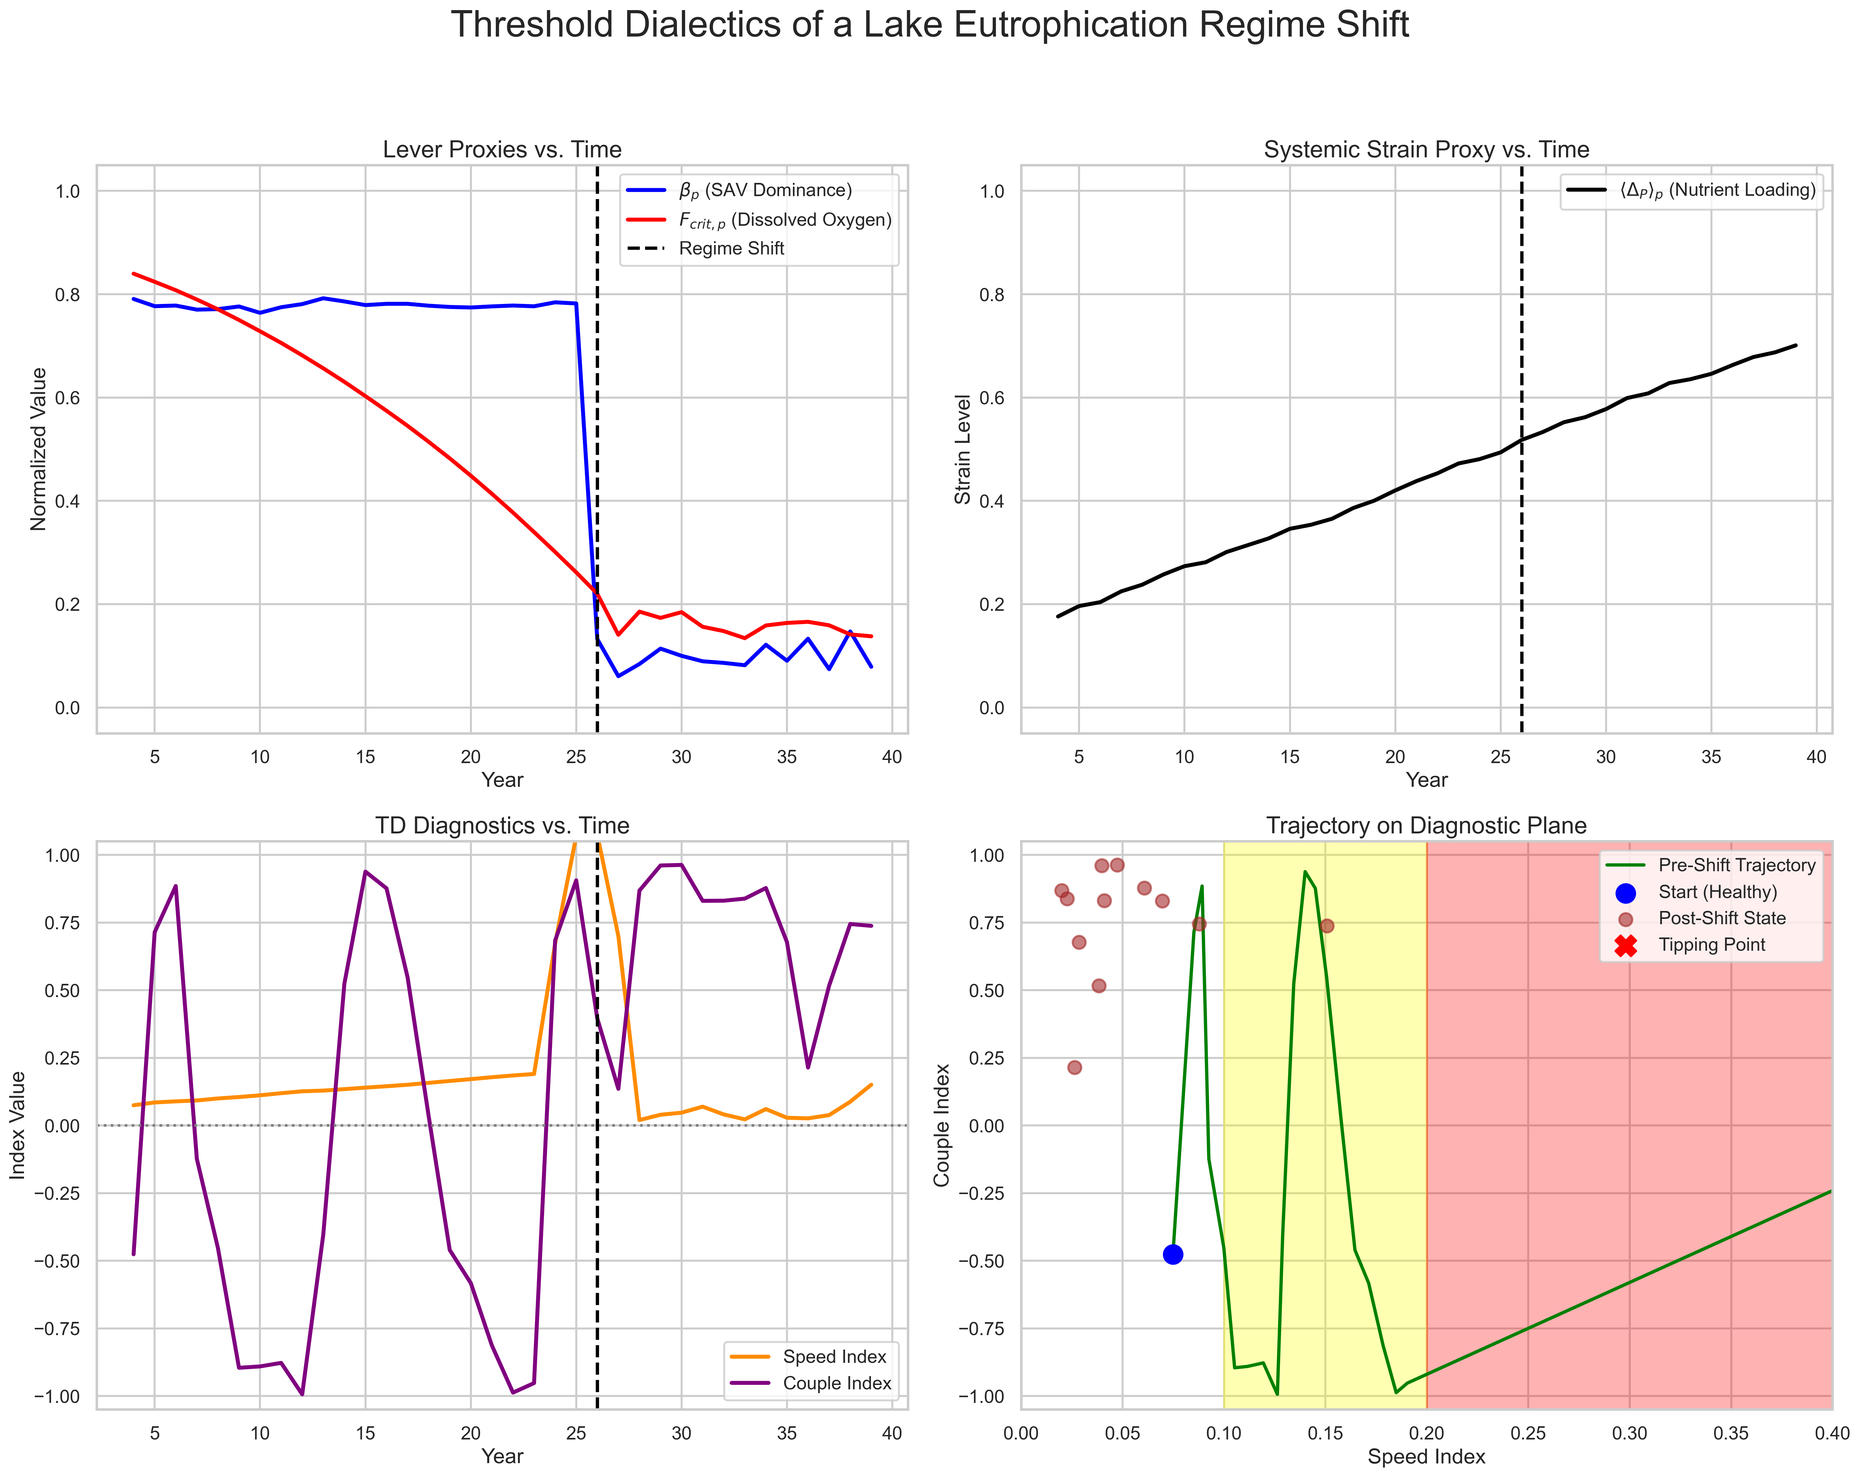
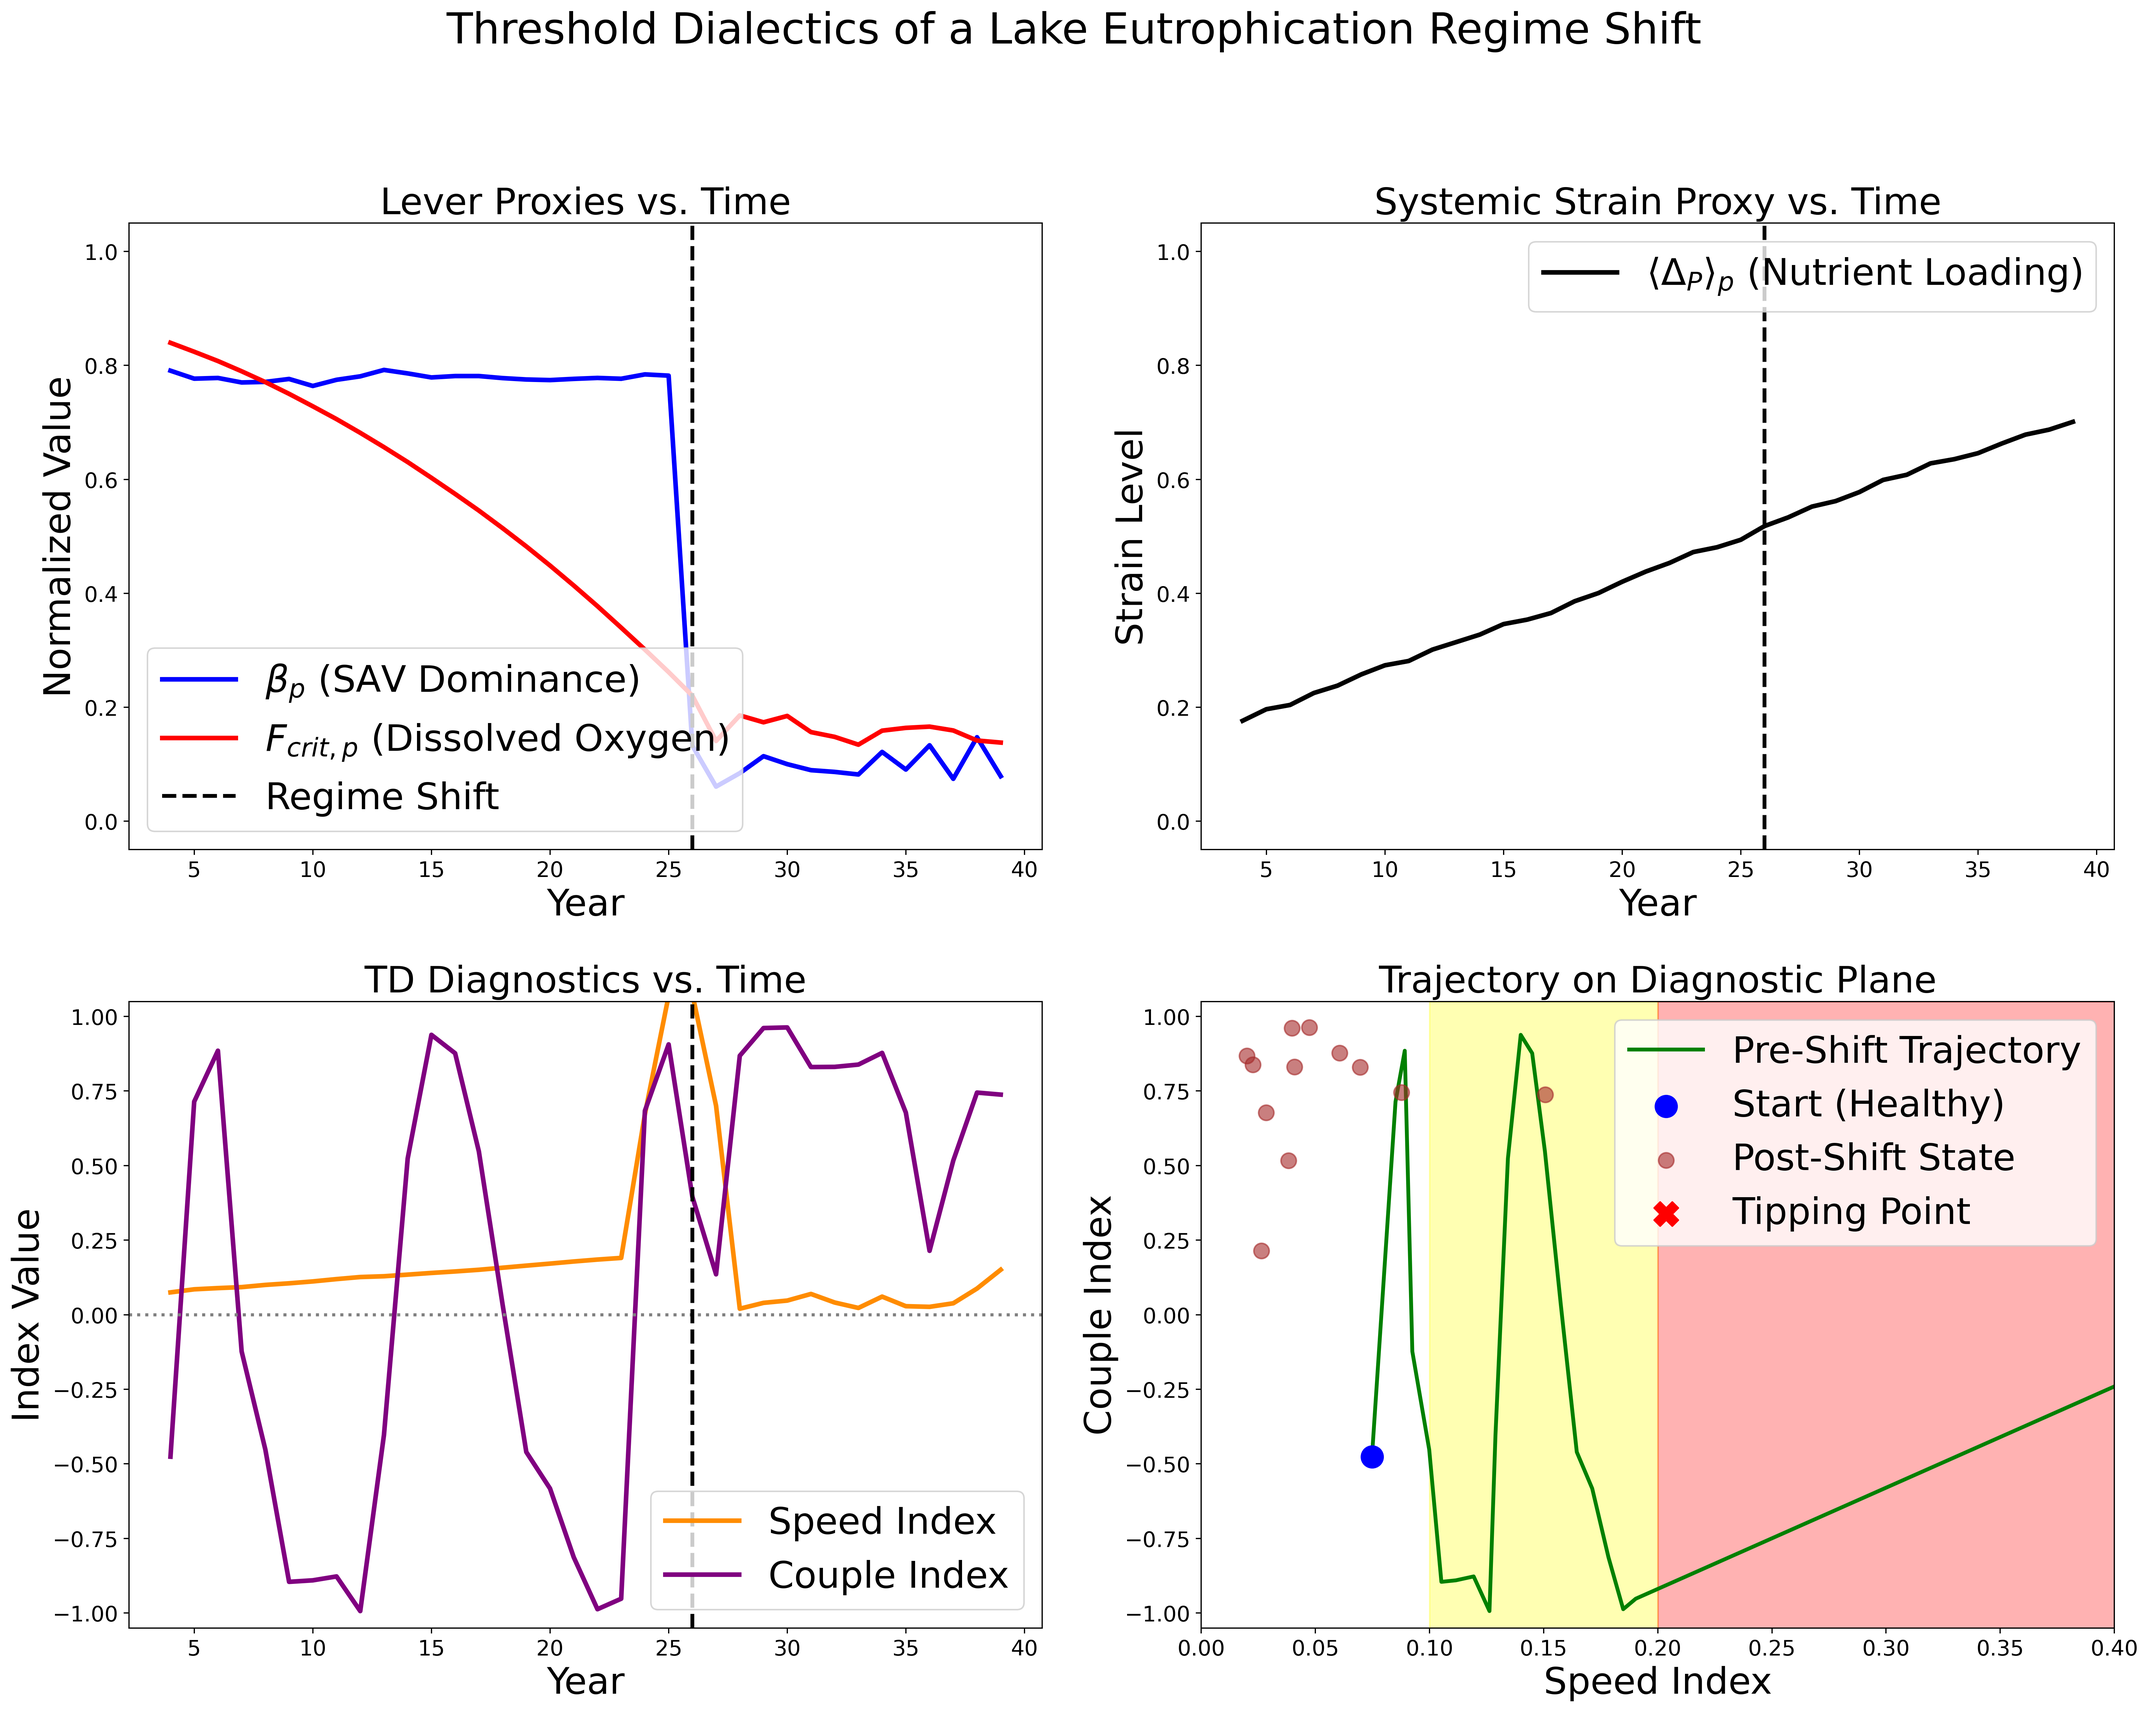
Finished

diff --git a/echo_bubble_19A.py b/echo_bubble_19A.py
@@ -5,8 +5,15 @@ import matplotlib.pyplot as plt
 from scipy.signal import savgol_filter
 import seaborn as sns
 import scipy.stats as stats
-# Set a professional plotting theme
-sns.set_theme(style="whitegrid", context="talk")
+# Set a professional plotting theme with larger text
+plt.rcParams.update({
+    "font.size": 24,
+    "axes.titlesize": 24,
+    "axes.labelsize": 24,
+    "legend.fontsize": 24,
+    "xtick.labelsize": 14,
+    "ytick.labelsize": 14
+})
 
 class FinancialMarketSystem:
     """
@@ -146,7 +153,6 @@ def plot_financial_cascade(df):
     using a unified color scheme and a high-contrast "cased line" for clarity.
     """
     # Use the seaborn 'whitegrid' style for consistency with the lake figure
-    sns.set_theme(style="whitegrid", context="talk")
     
     fig, axes = plt.subplots(2, 2, figsize=(20, 16))
     fig.suptitle('Threshold Dialectics of a Financial "Echo Bubble"', fontsize=28, y=0.98)
@@ -179,16 +185,16 @@ def plot_financial_cascade(df):
     ax.plot(df.index, df['beta_p'], color=LINE_COLORS['beta_p'], lw=3, label=r'$\beta_p$ (Valuation Consensus)')
     ax.plot(df.index, df['fcrit_p'], color=LINE_COLORS['fcrit_p'], lw=3, label=r'$F_{crit,p}$ (Margin Debt)')
     ax.axvline(correction_start_week, color='black', linestyle='--', lw=2.5, label='Correction Start')
-    ax.set_title('Lever Proxies vs. Time', fontsize=18)
-    ax.set_ylabel('Normalized Value', fontsize=16)
-    ax.legend(loc='upper left', fontsize=14)
+    ax.set_title('Lever Proxies vs. Time')
+    ax.set_ylabel('Normalized Value')
+    ax.legend(loc='upper left')
 
     # Panel 2: Systemic Strain
     ax = axes[0, 1]
     ax.plot(df.index, df['strain_p'], color=LINE_COLORS['strain_p'], lw=3, label=r'$\langle\Delta_P\rangle_p$ (Price Deviation)')
     ax.axvline(correction_start_week, color='black', linestyle='--', lw=2.5)
-    ax.set_title('Systemic Strain Proxy vs. Time', fontsize=18)
-    ax.legend(loc='upper left', fontsize=14)
+    ax.set_title('Systemic Strain Proxy vs. Time')
+    ax.legend(loc='upper left')
 
     # Panel 3: TD Diagnostics
     ax = axes[1, 0]
@@ -196,9 +202,9 @@ def plot_financial_cascade(df):
     ax.plot(df.index, df['CoupleIndex'], color=LINE_COLORS['CoupleIndex'], lw=3, label='Couple Index')
     ax.axhline(0, color='gray', linestyle=':', lw=2)
     ax.axvline(correction_start_week, color='black', linestyle='--', lw=2.5)
-    ax.set_title('TD Diagnostics vs. Time', fontsize=18)
-    ax.set_ylabel('Index Value', fontsize=16)
-    ax.legend(loc='best', fontsize=14)
+    ax.set_title('TD Diagnostics vs. Time')
+    ax.set_ylabel('Index Value')
+    ax.legend(loc='best')
 
     # --- Panel 4: Trajectory on Diagnostic Plane (FINAL POLISHED VERSION) ---
     ax = axes[1, 1]
@@ -234,12 +240,12 @@ def plot_financial_cascade(df):
     ax.scatter(correction_point['SpeedIndex'], correction_point['CoupleIndex'],
                marker='X', s=300, color='white', ec='black', lw=1.5, zorder=5, label='Correction Start') # White 'X' for max contrast
 
-    ax.set_title('Trajectory on Diagnostic Plane', fontsize=18)
-    ax.set_xlabel('Speed Index', fontsize=16)
-    ax.set_ylabel('Couple Index', fontsize=16)
+    ax.set_title('Trajectory on Diagnostic Plane')
+    ax.set_xlabel('Speed Index')
+    ax.set_ylabel('Couple Index')
     ax.set_xlim(0, 0.15)
     ax.set_ylim(-1.05, 1.05)
-    ax.legend(title="Trajectory & Events", loc='lower right', fontsize=12, title_fontsize=13)
+    ax.legend(title="Trajectory & Events", loc='lower right')
 
     # Apply UNIFIED Narrative Phase Backgrounds to all Time-Series Plots
     for ax_ts in [axes[0, 0], axes[0, 1], axes[1, 0]]:
@@ -253,15 +259,15 @@ def plot_financial_cascade(df):
     for ax_row in axes:
         for ax_col in ax_row:
             if ax_col is not axes[1, 1]:
-                ax_col.set_xlabel('Week', fontsize=16)
+                ax_col.set_xlabel('Week')
                 # Remove y-axis labels for strain and index plots for cleaner look if desired
                 # (Optional, but can improve dashboard feel)
                 if ax_col in [axes[0, 1], axes[1, 0]]:
                     ax_col.set_ylabel('')
-            ax_col.tick_params(axis='both', which='major', labelsize=14)
+            ax_col.tick_params(axis='both', which='major', labelsize=12)
 
     plt.tight_layout(rect=[0, 0, 1, 0.95])
-    plt.savefig("financial_bubble_dashboard.png", dpi=300, bbox_inches='tight')
+    plt.savefig("financial_bubble_dashboard.png", dpi=350, bbox_inches='tight')
     plt.show()
 
 

diff --git a/lake_eutrophication_19B.py b/lake_eutrophication_19B.py
@@ -5,8 +5,15 @@ import matplotlib.pyplot as plt
 from scipy.signal import savgol_filter
 import seaborn as sns
 import scipy.stats as stats
-# Set a professional plotting theme
-sns.set_theme(style="whitegrid", context="talk")
+# Set a professional plotting theme with larger text
+plt.rcParams.update({
+    "font.size": 24,
+    "axes.titlesize": 24,
+    "axes.labelsize": 24,
+    "legend.fontsize": 24,
+    "xtick.labelsize": 14,
+    "ytick.labelsize": 14
+})
 
 class LakeEcosystem:
     """
@@ -140,19 +147,19 @@ def plot_eutrophication_cascade(df):
     ax.plot(df.index, df['beta_p'], color='blue', lw=3, label=r'$\beta_p$ (SAV Dominance)')
     ax.plot(df.index, df['fcrit_p'], color='red', lw=3, label=r'$F_{crit,p}$ (Dissolved Oxygen)')
     ax.axvline(collapse_year, color='black', linestyle='--', lw=2.5, label='Regime Shift')
-    ax.set_title('Lever Proxies vs. Time', fontsize=18)
-    ax.set_ylabel('Normalized Value', fontsize=16)
+    ax.set_title('Lever Proxies vs. Time')
+    ax.set_ylabel('Normalized Value')
     ax.set_ylim(-0.05, 1.05)
-    ax.legend(loc='best', fontsize=14)
+    ax.legend(loc='best')
     
     # --- Panel 2: Systemic Strain ---
     ax = axes[0, 1]
     ax.plot(df.index, df['strain_p'], color='black', lw=3, label=r'$\langle\Delta_P\rangle_p$ (Nutrient Loading)')
     ax.axvline(collapse_year, color='black', linestyle='--', lw=2.5)
-    ax.set_title('Systemic Strain Proxy vs. Time', fontsize=18)
-    ax.set_ylabel('Strain Level', fontsize=16)
+    ax.set_title('Systemic Strain Proxy vs. Time')
+    ax.set_ylabel('Strain Level')
     ax.set_ylim(-0.05, 1.05)
-    ax.legend(loc='best', fontsize=14)
+    ax.legend(loc='best')
          
     # --- Panel 3: TD Diagnostics ---
     ax = axes[1, 0]
@@ -160,10 +167,10 @@ def plot_eutrophication_cascade(df):
     ax.plot(df.index, df['CoupleIndex'], color='purple', lw=3, label='Couple Index')
     ax.axhline(0, color='gray', linestyle=':', lw=2)
     ax.axvline(collapse_year, color='black', linestyle='--', lw=2.5)
-    ax.set_title('TD Diagnostics vs. Time', fontsize=18)
-    ax.set_ylabel('Index Value', fontsize=16)
+    ax.set_title('TD Diagnostics vs. Time')
+    ax.set_ylabel('Index Value')
     ax.set_ylim(-1.05, 1.05)
-    ax.legend(loc='best', fontsize=14)
+    ax.legend(loc='best')
     
     # --- Panel 4: S/C Diagnostic Plane ---
     ax = axes[1, 1]
@@ -182,21 +189,21 @@ def plot_eutrophication_cascade(df):
     ax.scatter(post_collapse_df['SpeedIndex'], post_collapse_df['CoupleIndex'], color='brown', s=100, zorder=4, alpha=0.6, label='Post-Shift State')
     ax.scatter(pre_collapse_df['SpeedIndex'].iloc[-1], pre_collapse_df['CoupleIndex'].iloc[-1], color='red', marker='X', s=250, zorder=5, label='Tipping Point')
 
-    ax.set_title('Trajectory on Diagnostic Plane', fontsize=18)
-    ax.set_xlabel('Speed Index', fontsize=16)
-    ax.set_ylabel('Couple Index', fontsize=16)
+    ax.set_title('Trajectory on Diagnostic Plane')
+    ax.set_xlabel('Speed Index')
+    ax.set_ylabel('Couple Index')
     ax.set_xlim(0, 0.4)
     ax.set_ylim(-1.05, 1.05)
-    ax.legend(loc='best', fontsize=14)
+    ax.legend(loc='best')
 
     for ax_row in axes:
         for ax_col in ax_row:
             if ax_col is not axes[1, 1]:
-                ax_col.set_xlabel('Year', fontsize=16)
-            ax_col.tick_params(axis='both', which='major', labelsize=14)
+                ax_col.set_xlabel('Year')
+            ax_col.tick_params(axis='both', which='major')
 
     plt.tight_layout(rect=[0, 0, 1, 0.95])
-    plt.savefig("lake_eutrophication_dashboard.png", dpi=300, bbox_inches='tight')
+    plt.savefig("lake_eutrophication_dashboard.png", dpi=350, bbox_inches='tight')
     plt.show()
 
 def run_statistical_analysis(df):
